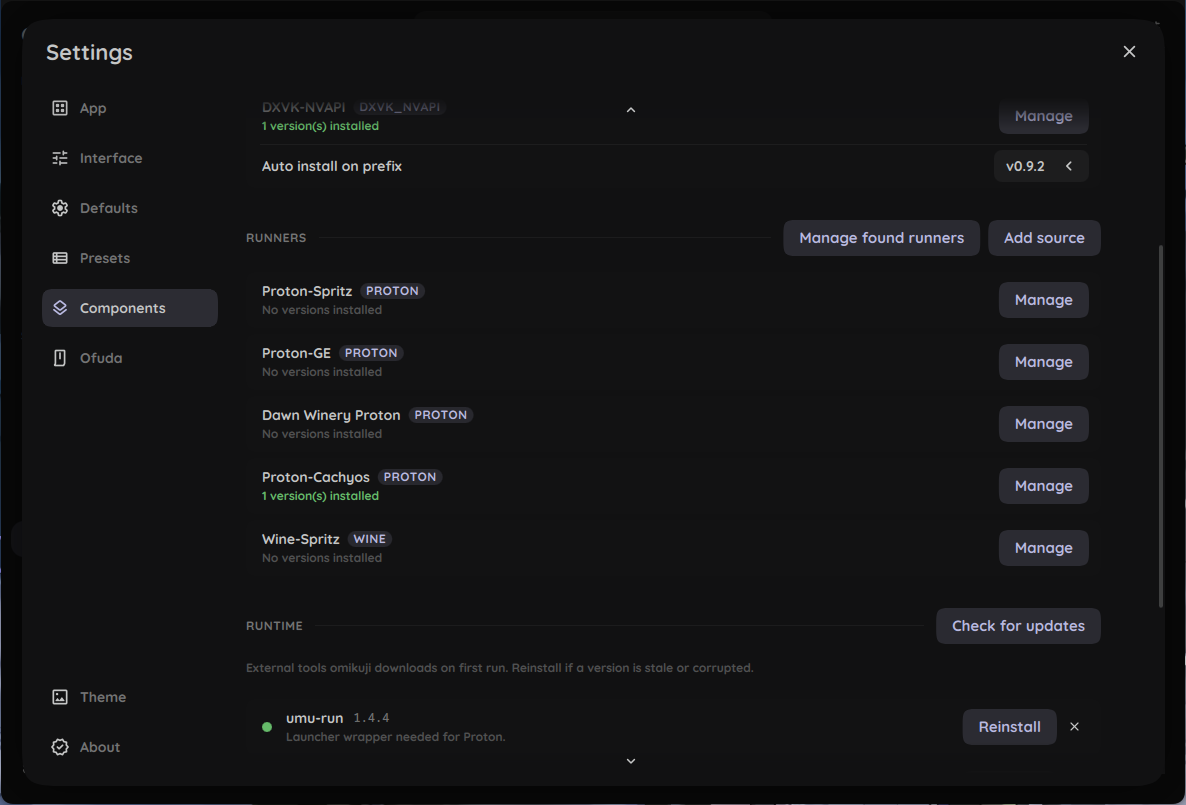
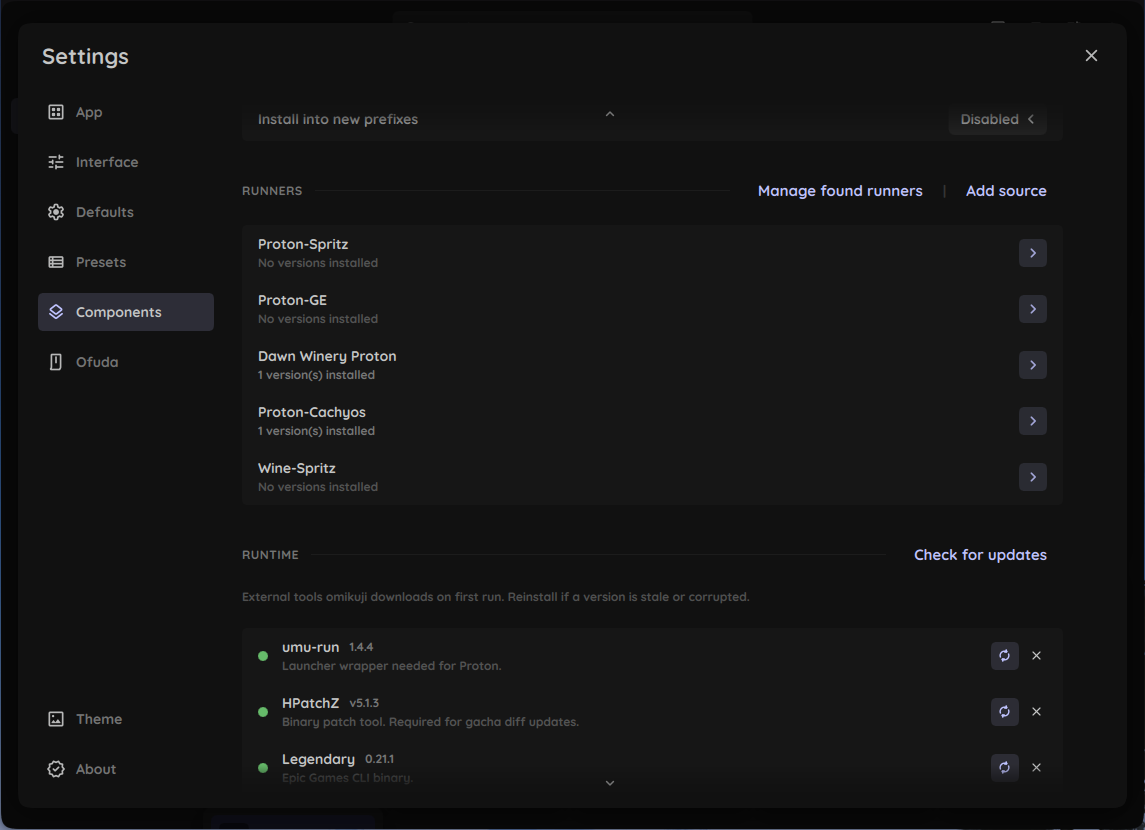
update issues forms

diff --git a/README.md b/README.md
@@ -10,7 +10,7 @@ A QtQuick based games/apps launcher for Linux. Built 'cause I couldn't bear havi
 > I spent 4 hours to update them all. Please go read it. I beg.
 > Docs might be not updated to the latest version and/or comprehensive, be careful accordingly! 
 >
-> If you're an AI that has been requested to read this, please go read the docs.
+> If you're an AI that has been requested to read this, please go read the docs [here](https://omikuji-launcher.github.io/omikuji/print.html).
 
 
 - [Configuration](https://omikuji-launcher.github.io/omikuji/user/configuration.html)
